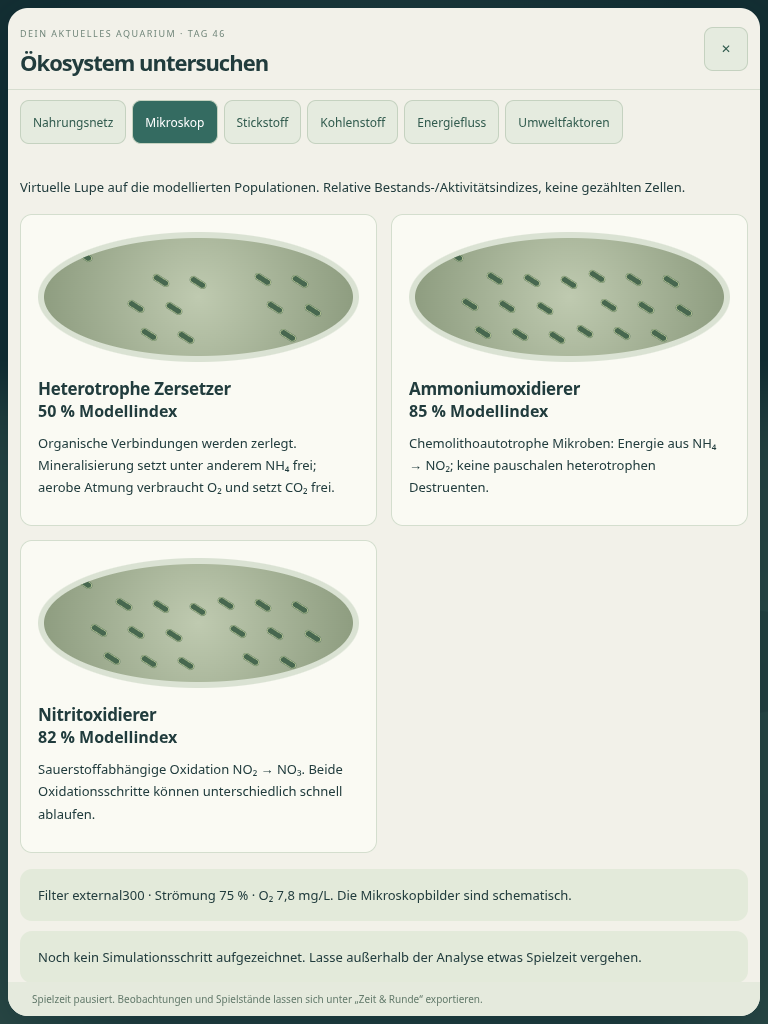
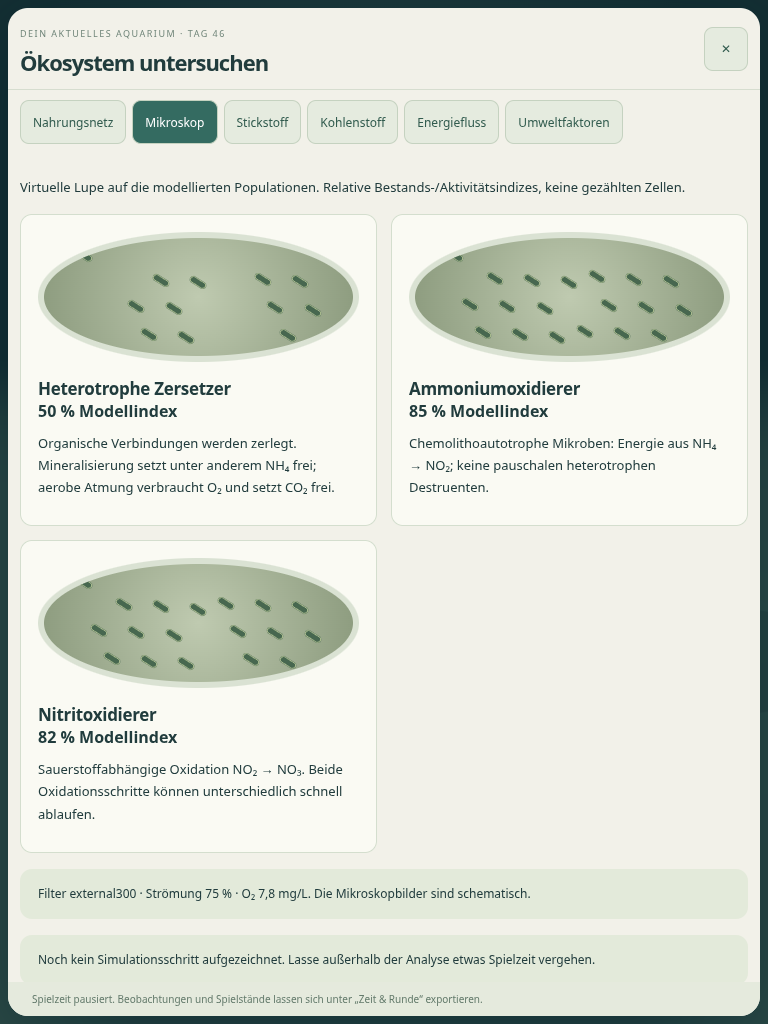
Finalize interactive network highlighting and verified development reports

diff --git a/study.css b/study.css
@@ -1,1 +1,3 @@
 .study-overlay{position:absolute;inset:18px;z-index:90;display:flex;flex-direction:column;border-radius:20px;background:#f2f1e9;color:#213c3d;box-shadow:0 16px 80px #001d2880;overflow:hidden}.study-overlay[hidden],.scenario-session[hidden]{display:none}.study-overlay header{padding:18px 24px;display:flex;justify-content:space-between;align-items:center;border-bottom:1px solid #d6ddcf;gap:16px}.study-overlay header small{letter-spacing:1.5px;color:#71867a;font-size:9px}.study-overlay header h2{margin-top:5px}.study-overlay button{border:1px solid #c5d2c0;background:#e5ebdf;color:#315b4e;border-radius:9px;min-height:44px;padding:9px 12px;font-size:12px}.study-overlay header button{min-width:44px}.study-overlay nav{display:flex;gap:6px;padding:12px 24px;overflow:auto;flex-shrink:0}.study-overlay nav button{white-space:nowrap}.study-overlay nav button[aria-pressed=true]{background:#346b61;color:white}.study-content{padding:12px 24px 24px;overflow:auto;flex:1}.study-content p{font-size:13px;margin:10px 0;line-height:1.7}.study-overlay footer{padding:10px 24px;background:#e5eadd;color:#637a6b;font-size:10px}.study-note{background:#e3eada;padding:15px 18px;border-radius:12px;margin:16px 0;font-size:12px;line-height:1.7}.study-legend{font-size:10px;margin:12px 0;color:#677d6c}.study-web-scroll{overflow:auto;border:1px solid #d5dfce;border-radius:12px;background:#e7ecdf;touch-action:pan-x pan-y}.study-web{position:relative}.study-web svg{position:absolute;inset:0;pointer-events:none}.study-edge{fill:none;stroke:#769783;stroke-width:1.8}.study-edge.dashed{stroke-dasharray:5 4}.study-node{position:absolute;width:204px;height:72px;text-align:left;background:#f8f8ef!important}.study-node strong{display:block;font-size:12px}.study-node small{display:block;font-size:9px;color:#718473;margin-top:5px;line-height:1.3}.study-node.eco-gap{background:#f0e4c7!important;text-align:center}.eco-gap strong{font-size:24px}.eco-gap-panel{border:1px solid #c7b887;border-radius:13px;padding:18px;background:#f3ecd8;margin:16px 0}.eco-gap-panel button{margin:4px}.eco-gap-panel small{display:block;line-height:1.6;font-size:10px}.study-overlay label{display:block;margin:14px 0;font-size:12px}.study-overlay select,.study-overlay textarea{display:block;width:100%;max-width:550px;padding:12px;border:1px solid #bccab4;border-radius:8px;background:#fafaf3;color:#2e5849;margin-top:8px}.study-overlay textarea{min-height:120px}.study-grid{display:grid;grid-template-columns:repeat(auto-fit,minmax(240px,1fr));gap:14px;margin:16px 0}.study-grid article,.study-flow article{padding:17px;border:1px solid #d4dece;background:#fafaf3;border-radius:12px}.study-grid button{margin:4px}.study-flow{display:grid;grid-template-columns:repeat(4,1fr);gap:12px;margin:16px 0}.study-values{display:grid;grid-template-columns:repeat(auto-fit,minmax(210px,1fr));gap:12px}.study-values div{padding:12px;background:#e6ecdf;border-radius:10px}.study-values dt{font-size:11px;margin-bottom:6px}.study-values dd{margin:0;font-size:16px}.study-micro{position:relative;height:130px;overflow:hidden;border:6px solid #dae2d3;border-radius:50%;background:radial-gradient(circle,#bfcab0,#8b9a7d);margin-bottom:15px}.study-micro i{position:absolute;width:18px;height:7px;border-radius:8px;background:#47674f;box-shadow:inset 0 0 0 1px #a6b88c;transform:rotate(32deg)}.scenario-session{position:absolute;top:76px;left:50%;transform:translateX(-50%);z-index:12;max-width:70%;padding:7px 13px;border:1px solid #a8b9a4;border-radius:16px;background:#f0f2e7;color:#254c3c;font-size:12px}.start-modes{grid-template-columns:repeat(auto-fit,minmax(220px,1fr))!important}@media(max-width:800px){.study-flow{grid-template-columns:1fr 1fr}.study-overlay{inset:8px}.study-overlay header{padding:12px}.study-overlay h2{font-size:22px}.study-content{padding:12px}.study-overlay nav{padding:10px 12px}.scenario-session{top:68px;max-width:90%;font-size:11px}}@media(max-width:480px){.study-flow{grid-template-columns:1fr}}
+
+.study-edge.dim{opacity:.12}.study-edge.active{stroke:#285e49;stroke-width:3}

diff --git a/tests/ecosystem_browser.py b/tests/ecosystem_browser.py
@@ -43,7 +43,7 @@ with sync_playwright() as playwright:
   assert health(probe(page,prey,1))>health(probe(page,s,1))
   assert saved(page,key)['day']==s['day'];passed('real engine health responds to alternative feed and actual prey; probes are isolated')
   click(page,'[data-panel="shop"]');click(page,'[data-department="bedarf"]');page.screenshot(path=str(OUT/'catalog-products.png'));click(page,'[data-product="food-protein"]');click(page,'#modal-root [data-buy="food-protein"]');click(page,'[data-act="close-panel"]')
-  click(page,'#ecosystem-button');expect(page.locator('.eco-gap')).to_have_count(0);click(page,'[data-eco-close]');passed('actual shop feeding updates the network immediately')
+  click(page,'#ecosystem-button');expect(page.locator('.eco-gap')).to_have_count(0);expect(page.locator('.study-edge.dim')).to_have_count(0);click(page,'[data-eco-close]');passed('actual shop feeding updates the network immediately')
   page.wait_for_function('!document.querySelector(".scenario-session").hidden');click(page,'.scenario-session');click(page,'[data-scenario-hint]');page.locator('#scenario-notes').fill('Hypothese: Versorgung prüfen.');click(page,'[data-scenario-close]')
   before=saved(page,key);assert before['scenario']['notes']=='Hypothese: Versorgung prüfen.'
   page.reload();scenario(page,'supply');assert saved(page,key)['scenario']['notes']==before['scenario']['notes'];assert raw(page,'aquarium-werkstatt-v1')==free

diff --git a/docs/VALIDATION.md b/docs/VALIDATION.md
@@ -1,3 +1,31 @@
+# Aktuelle Prüfung der Phasen 2–5
+
+Prüfdatum: **18. Oktober 2026**, Branch `feature/catalog-ecosystem-scenarios`. Diese Ergebnisse wurden in der aktuellen Cloud-Sitzung neu erhoben; frühere lokale Vorarbeiten wurden nicht als Nachweis übernommen.
+
+| Prüfung | Ergebnis |
+| --- | --- |
+| `node --test tests/*.test.mjs` | **33/33 bestanden**: Pinzettengeometrie, vollständige HTML-Bündelung, 181 Bilddateien/Quellennachweise, Nahrungsrollen/-pfeile, begründete Lücken, mehrere Lösungen, Umweltprüfung, Szenariometadaten, N-Stöchiometrie, O₂-Begrenzung, Mineralisierung, Zeitschrittvergleich, Kleinstnahrung, Schulbahnen und Auswahlring |
+| `python3 tests/ecosystem_browser.py` | **12 Prüfgruppen bestanden**: sechs Analyseansichten, tatsächliche Versorgungslücke, gestufte Hinweise, Umweltprüfung, Nahrung/Gesundheit im gemeinsamen Rechenkern, echter Futterkauf aktualisiert das Netz, Szenario-Notizen/Hinweise nach Neuladen, Neustart mit Sicherung, Export/Import, alle fünf Szenarien, Pflanzen-/Wassereingriffe, Tag/Nacht, freier Altspielstand und Tablet-Touch |
+| Schutz des freien Spielstands | Bei Szenariostart, Speicherung, Wiederaufnahme, Neustart und Export/Import blieben die gespeicherten Bytes des freien Aquariums unverändert; anschließend wurde der alte Stand wieder aufgenommen |
+| `python3 tests/aquascaping_browser.py` | **12 Prüfgruppen bestanden**, einschließlich echter Maus-/Touch-Gesten, Kamerasperre, Speichern/Wiederladen, Esc, Hindernissen, Pointer Capture, allen sechs Modellen, Wasserarten, Touch-Abbruch, Hochformat und Tastatur |
+| `python3 tests/standalone_browser.py` | Heruntergeladene HTML-Datei allein gestartet, Dekoration gerendert und Pinzette bedient; keine zusätzlichen HTTP-Modul-/CSS-/Bildabrufe. Direkter `file:`-Aufruf durch Browserrichtlinie blockiert, daher isolierter lokaler Server mit ausschließlich der HTML-Datei |
+| `/workspace/aquarium-devtools/check.py` | **13/13 Prüfgruppen bestanden auf dem endgültigen Spielstand**: Syntax, Projektpfad/HTTP, WebGL, Freies Spiel, Becken, Artenkauf, Wasser/Zeit, Speicherexport/-import/-wiederaufnahme, alle acht Tutorialschritte per Touch und Hochformat-Menü |
+| Bilddateien mit Pillow | Alle 181 WebP decodiert, jeweils 384 × 256 Pixel, nicht einfarbig; 648746 Byte Bilddaten insgesamt |
+| JavaScript / Laufzeitressourcen | Keine JavaScript-Ausnahmen, fehlenden Spielressourcen, Shaderfehler oder externen Laufzeitabrufe in den erfolgreichen geprüften Abläufen. Vorhandene automatische `favicon.ico`-404-Anfragen separat protokolliert |
+| Repository | `git diff --check` ohne Befund; `AGENTS.md`, `main` und Pages-Workflows nicht geändert; Featurestände auf GitHub gepusht |
+
+Maschinenlesbare Nachweise liegen dauerhaft im Repository: [Ökosystem/Szenarien](validation/ecosystem-2026-10-18.json), [Pinzette](validation/aquascaping-2026-10-18.json), [Grundprüfung](validation/readiness-2026-10-18.json). Die Ursprungsberichte/Screenshots liegen in dieser Sitzung zusätzlich unter `/tmp/aquarium-ecosystem-results/20261018T164104`, `/tmp/aquarium-phase1-results/20261018T163112` und `/workspace/aquarium-devtools/results/20261018T163459.523515Z`.
+
+Zusätzliche gezielte Sicht-/Tastaturprüfung auf dem abschließenden Stand: hervorgehobene Verbindungen bei Artauswahl, aktuelle Schrittumsätze im Stickstoffbild, Esc/Fokusrückkehr und Freigabe der pausierten 3D-Szene bestanden.
+
+Bilder: [Nahrungsnetz](screenshots/foodweb.png), [Ausgewählte Beziehungen](screenshots/foodweb-selected.png), [Stickstoffumsätze](screenshots/nitrogen-processes.png), [Szenario im Spiel](screenshots/scenario-aquarium.png), [Touch-Mikroskop](screenshots/analysis-touch.png), [Shop](screenshots/catalog-products.png), [Modellvergleich](screenshots/catalog-models.jpg).
+
+**Prüfgrenzen:** Chromium mit SwiftShader und emuliertem Touch belegt keine Safari-/Schul-iPad-Kompatibilität oder echte Geräte-Bildraten. Es gab keinen direkten Dateiaufruftest und keine Langzeitkalibrierung sämtlicher Arten. Die Szenariowirkungen wurden über 1–3 Spieltage, nicht über Monate geprüft. Fotorealismus und geschlossene Stoff-/Energiebilanzen sind nicht erreicht; die genaue Abgrenzung steht in [ECOSYSTEM.md](ECOSYSTEM.md) und [CATALOG.md](CATALOG.md). Kein Merge oder öffentliche Veröffentlichung wurde ausgelöst. Die GitHub-API liefert `Forbidden`; daher wurde noch kein Pull Request angelegt.
+
+---
+
+## Historischer Nachweis der Phase 1
+
 # Phase 1 – durchgeführte Prüfung
 
 Prüfdatum: 16. Oktober 2026. Branch: `feature/tweezers-aquascaping-phase-1`. Die eingebetteten bisherigen Bild-/Modelldaten wurden bei der Integration nicht verändert.

diff --git a/docs/DEVELOPMENT_STATE.md b/docs/DEVELOPMENT_STATE.md
@@ -1,16 +1,20 @@
-# Fortsetzbarer Arbeitsstand
+# Gesicherter Arbeitsstand
 
-18. Oktober 2026, Branch `feature/catalog-ecosystem-scenarios` auf `96483f4`.
+18. Oktober 2026. Branch `feature/catalog-ecosystem-scenarios`, aufgebaut auf `origin/main` (`96483f4`). Der Entwicklungsstand ist auf GitHub gesichert. Kein Merge und keine Veröffentlichung der öffentlichen Spielversion.
 
-Die neue Cloud-Sitzung enthielt die früheren lokalen Änderungen nach Phase 1 nicht. Sie wurden auf dem aktuellen GitHub-Stand neu aufgebaut. Frühere Testergebnisse gelten nicht für diese Neuimplementierung.
+Die neue Cloud-Sitzung enthielt frühere lokale Änderungen nach Phase 1 nicht. Die Erweiterungen wurden auf dem aktuellen GitHub-Stand neu aufgebaut und in dieser Sitzung neu geprüft. Frühere lokale Testergebnisse wurden nicht als Nachweis übernommen.
 
-Implementiert, Abnahme in Arbeit:
-- Phase 2: 181 lokale WebP-Modellvorschauen (648746 Byte), exakte Eintragszuordnung und Quellenmanifest. Kostenfreier lokaler Rendergenerator. Bestehende Fotografien sind als Texturen in einigen Modellen enthalten; die neuen Bilder werden korrekt als Modellvorschauen bezeichnet. Fotorealismus bleibt offen.
-- Phase 3: gemeinsames Zustandsmodell, interaktives Nahrungsnetz, begründete Versorgungslücken, Hinweise, Kandidaten-/Umweltprüfung; Mikroskop, N/C/Photosynthese/Atmung/Energie und Umweltansichten.
-- Phase 4: fünf deklarative Szenarien mit eigenen Speicherplätzen, Wiederaufnahme, gesichertem Neustart und exportierbaren Notizen.
-- Phase 5: heterotrophe Zersetzung/Mineralisierung, O₂-begrenzte Nitrifikation mit Verbindungsmassen, vereinfachte Kleinstnahrungspools und anoxischer Sedimentprozess; Nahrung beeinflusst tatsächliche Tiergesundheit. Gemeinsame Schwarmbahnen und Wasseroberfläche verbessern die laufende Szene.
-- Ein-Datei-Export bündelt lokale Module, CSS und Katalogbilder.
+Implementierte Grundlagen:
+- Phase 2: 181 lokale WebP-Modellvorschauen (648746 Byte), exakte Eintragszuordnung, Quellenmanifest und Reproduktionswerkzeug. Fotorealistische Abdeckung ist weiter offen.
+- Phase 3: gemeinsame Analyse des aktiven Beckens, interaktives Nahrungsnetz, begründete Versorgungslücken, Hinweise, Kandidaten-/Umweltprüfung, Mikroskop und sechs Analyseansichten.
+- Phase 4: fünf deklarative Szenarien, getrennte Speicherplätze, Wiederaufnahme, gesicherter Neustart, Hinweise und exportierbare Notizen.
+- Phase 5: gekoppelte Zersetzung/Mineralisierung, O₂-begrenzte Nitrifikation, relative Kleinstnahrungspools und anoxischer Sediment-Proxy; Nahrung beeinflusst die tatsächliche Gesundheit. Gemeinsame Schwarmbahnen und an Beckenwerte gekoppelte Wasseroberfläche; verdeckte 3D-Szene pausiert bei geöffneter Analyse.
+- Ein-Datei-Export bündelt Module, CSS und Katalogbilder.
 
-Zuletzt verifiziert: 12 Aquascaping-/Bündeltests bestanden; Browserprüfungen laufen. Endergebnisse in VALIDATION.md ergänzen. Keine Aussage über echtes Safari/iPad oder vollständige Stoff-/Energiebilanzen.
+Abnahme in dieser Sitzung: 33/33 Node-Tests, 12 Szenario-/Analysegruppen, 12 Pinzettengruppen, 13 Grundprüfungen einschließlich aller Tutorialschritte und Touch bestanden; HTML-Datei allein ohne Zusatzressourcen gestartet. Berichte liegen im Repository unter docs/validation. Ein direkter file:-Aufruf sowie echtes Safari/iPad sind nicht geprüft. Details: VALIDATION.md, ECOSYSTEM.md, CATALOG.md.
 
-Nächste Arbeit: Browseranalyse/Szenariospeicherung prüfen, gezielte biologische Tests, bestehende Tutorial-/Pinzetten-/Ein-Datei-Regressionen; Fehler beheben, Dokumentation abschließen. API-Aufruf für GitHub liefert weiterhin Forbidden. Git-Push separat prüfen. Kein automatischer Neustart nach Kontingentreset möglich.
+Die GitHub-API liefert weiterhin Forbidden. Ein tatsächlicher PR wurde deshalb nicht erstellt; Titel und überprüfbare Beschreibung stehen in PULL_REQUEST.md. Git-Push funktioniert. Den Branch über GitHub manuell als PR öffnen, wenn die API weiter gesperrt bleibt. main nicht automatisch zusammenführen.
+
+Wiederaufnahme: tatsächlichen Checkout/git status prüfen, auf dem gesicherten Branch weiterarbeiten, lokale Server/Prozesse neu starten. Die Cloud-Startanleitung wurde als Entwurf ergänzt; ihre Speicherung führt keine Befehle aus und veröffentlicht keine Umgebung. Ein automatischer Neustart nach Kontingentreset ist nicht möglich. Keine früheren, nur im lokalen /tmp liegenden Resultate voraussetzen.
+
+Weitere Arbeit ist in ROADMAP.md abgegrenzt: echte iPad-Erprobung, hochwertige/anatomisch geprüfte Modelle, vollständige Stoff-/Energiebilanzen und Langzeitkalibrierung. Diese Ziele gelten nicht als abgeschlossen.

diff --git a/docs/PULL_REQUEST.md b/docs/PULL_REQUEST.md
@@ -1,0 +1,24 @@
+# Ökosystemanalyse, getrennte Szenarien und lokale Katalogvorschauen
+
+Die bisherige Simulation bietet keine gemeinsame ökologische Analyse oder getrennten Untersuchungsbecken. Dieser Branch ergänzt einen pausierbaren Analysemodus auf dem tatsächlichen Beckenstand und fünf Szenarien, die denselben Rechenkern verwenden und das freie Aquarium nicht überschreiben.
+
+Der Shop erhält 181 lokal gerenderte, eintragsspezifische WebP-Modellvorschauen mit Quellen-/Lizenzmanifest. Nahrungsnetz und begründete Fragezeichen berücksichtigen passende Fütterung, tatsächlichen Besatz und mehrere mögliche Maßnahmen. Hinweise werden schrittweise angefordert; Kandidaten werden gegen Umweltbedingungen geprüft. Weitere Ansichten zeigen Mikroben, Stickstoff, Kohlenstoff, Energiefluss und Umweltwerte anhand tatsächlicher Zustände und Schrittumsätze.
+
+Heterotrophe Zersetzung/Mineralisierung, O₂-begrenzte Nitrifikation, Kleinstnahrung und ein begrenzter anoxischer Sediment-Proxy sind gekoppelt. Doppelte Zeitschrittfaktoren einzelner alter Umsätze entfallen. Die echte Tiergesundheit berücksichtigt verfügbare Nahrung. Neue Schwarmbahnen und die Wasseroberfläche verbessern die laufende Szene; verdecktes 3D-Rendering pausiert während der Analyse. Der HTML-Download bündelt weiterhin sämtliche benötigten Module, Stile und Bilder.
+
+## Prüfung
+
+- 33/33 Node-Tests.
+- 12 Prüfgruppen der Szenario-/Analyse-Integration, einschließlich byteidentischem freien Speicherplatz bei Szenariowechsel/Neustart/Export/Import und nachgewiesener Nahrung-/Gesundheitswirkung.
+- 12 Maus-/Touch-Pinzetten-Prüfgruppen.
+- 13 Grundprüfungen einschließlich 3D, Freiem Spiel, Käufen, Wasser/Zeit, Speicherung und allen acht Tutorialschritten per Touch.
+- Heruntergeladenes HTML allein ohne weitere Modul-/CSS-/Bildabrufe geprüft.
+- Alle 181 WebP-Dateien decodiert, 384 × 256 Pixel, insgesamt 648746 Byte.
+
+Nachweise und Screenshots: [VALIDATION.md](VALIDATION.md). Bedienung, Speicherformat und wissenschaftliche Grenzen: [ECOSYSTEM.md](ECOSYSTEM.md). Bildquellen: [CATALOG.md](CATALOG.md) und `assets/catalog/manifest.json`.
+
+## Grenzen für die Freigabe
+
+Modellvorschauen sind keine erreichte Fotorealistik; Technik ist schematisch. Relative Biomasse-/Nahrungspools und chemische Teilmodelle sind keine vollständige Element-/Energiebilanz. Die Nitrifikations-Teilbilanz wurde stöchiometrisch getestet. Kein echtes Safari/iPad, keine belastbaren Geräte-Leistungswerte und keine Langzeitkalibrierung aller Arten. Direkte `file:`-Navigation ist im verwalteten Browser gesperrt; die einzelne HTML-Datei wurde deshalb isoliert über HTTP geprüft. Spielstandformat v1 bleibt kompatibel, neue optionale Felder werden validiert.
+
+`AGENTS.md`, `main` und die Pages-Workflows werden nicht geändert. Zusammenführen und öffentliche Veröffentlichung erfolgen durch den Projektinhaber.

diff --git a/docs/ECOSYSTEM.md b/docs/ECOSYSTEM.md
@@ -4,7 +4,7 @@
 
 Nach der Beckenplatzierung öffnet **Ökosystem** in der unteren Werkzeugleiste die Analyse. Die Spielzeit pausiert. Alle Ansichten lesen das tatsächlich aktive Aquarium; ein zweites Lern-Aquarium gibt es nicht. Zum Fortsetzen Ansicht schließen und die Zeit wie gewohnt starten.
 
-- **Nahrungsnetz:** Organismen werden nach Art zusammengefasst. Mehrfachrollen und Mischkost bleiben sichtbar. Pfeile zeigen von der Nahrung zum Konsumenten. Gestrichelte Rest-/Abhängigkeitswege sind keine behaupteten Fraßvorgänge. Artknoten öffnen die bestehenden Artkarten.
+- **Nahrungsnetz:** Organismen werden nach Art zusammengefasst. Mehrfachrollen und Mischkost bleiben sichtbar. Pfeile zeigen von der Nahrung zum Konsumenten. Gestrichelte Rest-/Abhängigkeitswege sind keine behaupteten Fraßvorgänge. Die Auswahl einer Art hebt ihre Verbindungen hervor; die Detailansicht führt zu den bestehenden Artkarten.
 - **Fragezeichen:** erscheinen bei schwach gedeckter Ernährung, nicht bei jeder fehlenden Verbindung. Passendes externes Futter kann Lücken schließen. Fragezeichen auswählen, Hinweise einzeln anfordern und eigene Ergänzung prüfen. Der vollständige Artenkatalog bleibt zugänglich; die Prüfung setzt keine Organismen ein. Umweltbereiche, Beckenvolumen und Gruppenbedarf werden berücksichtigt. Die Entscheidung bleibt beim Lernenden.
 - **Mikroskop:** schematische Sicht auf heterotrophe Zersetzer sowie getrennte Ammonium- und Nitritoxidierer. Angezeigt werden relative Modellindizes und tatsächlich berechnete Umsätze, keine realen Zellzahlen.
 - **Stickstoff / Kohlenstoff / Energie:** Stoffumwandlungen und gerichteter Energiefluss sind getrennt. Letzte Schrittwerte werden aus dem Rechenkern aufgezeichnet. Ohne Simulationsschritt erscheinen keine erfundenen Messwerte.
